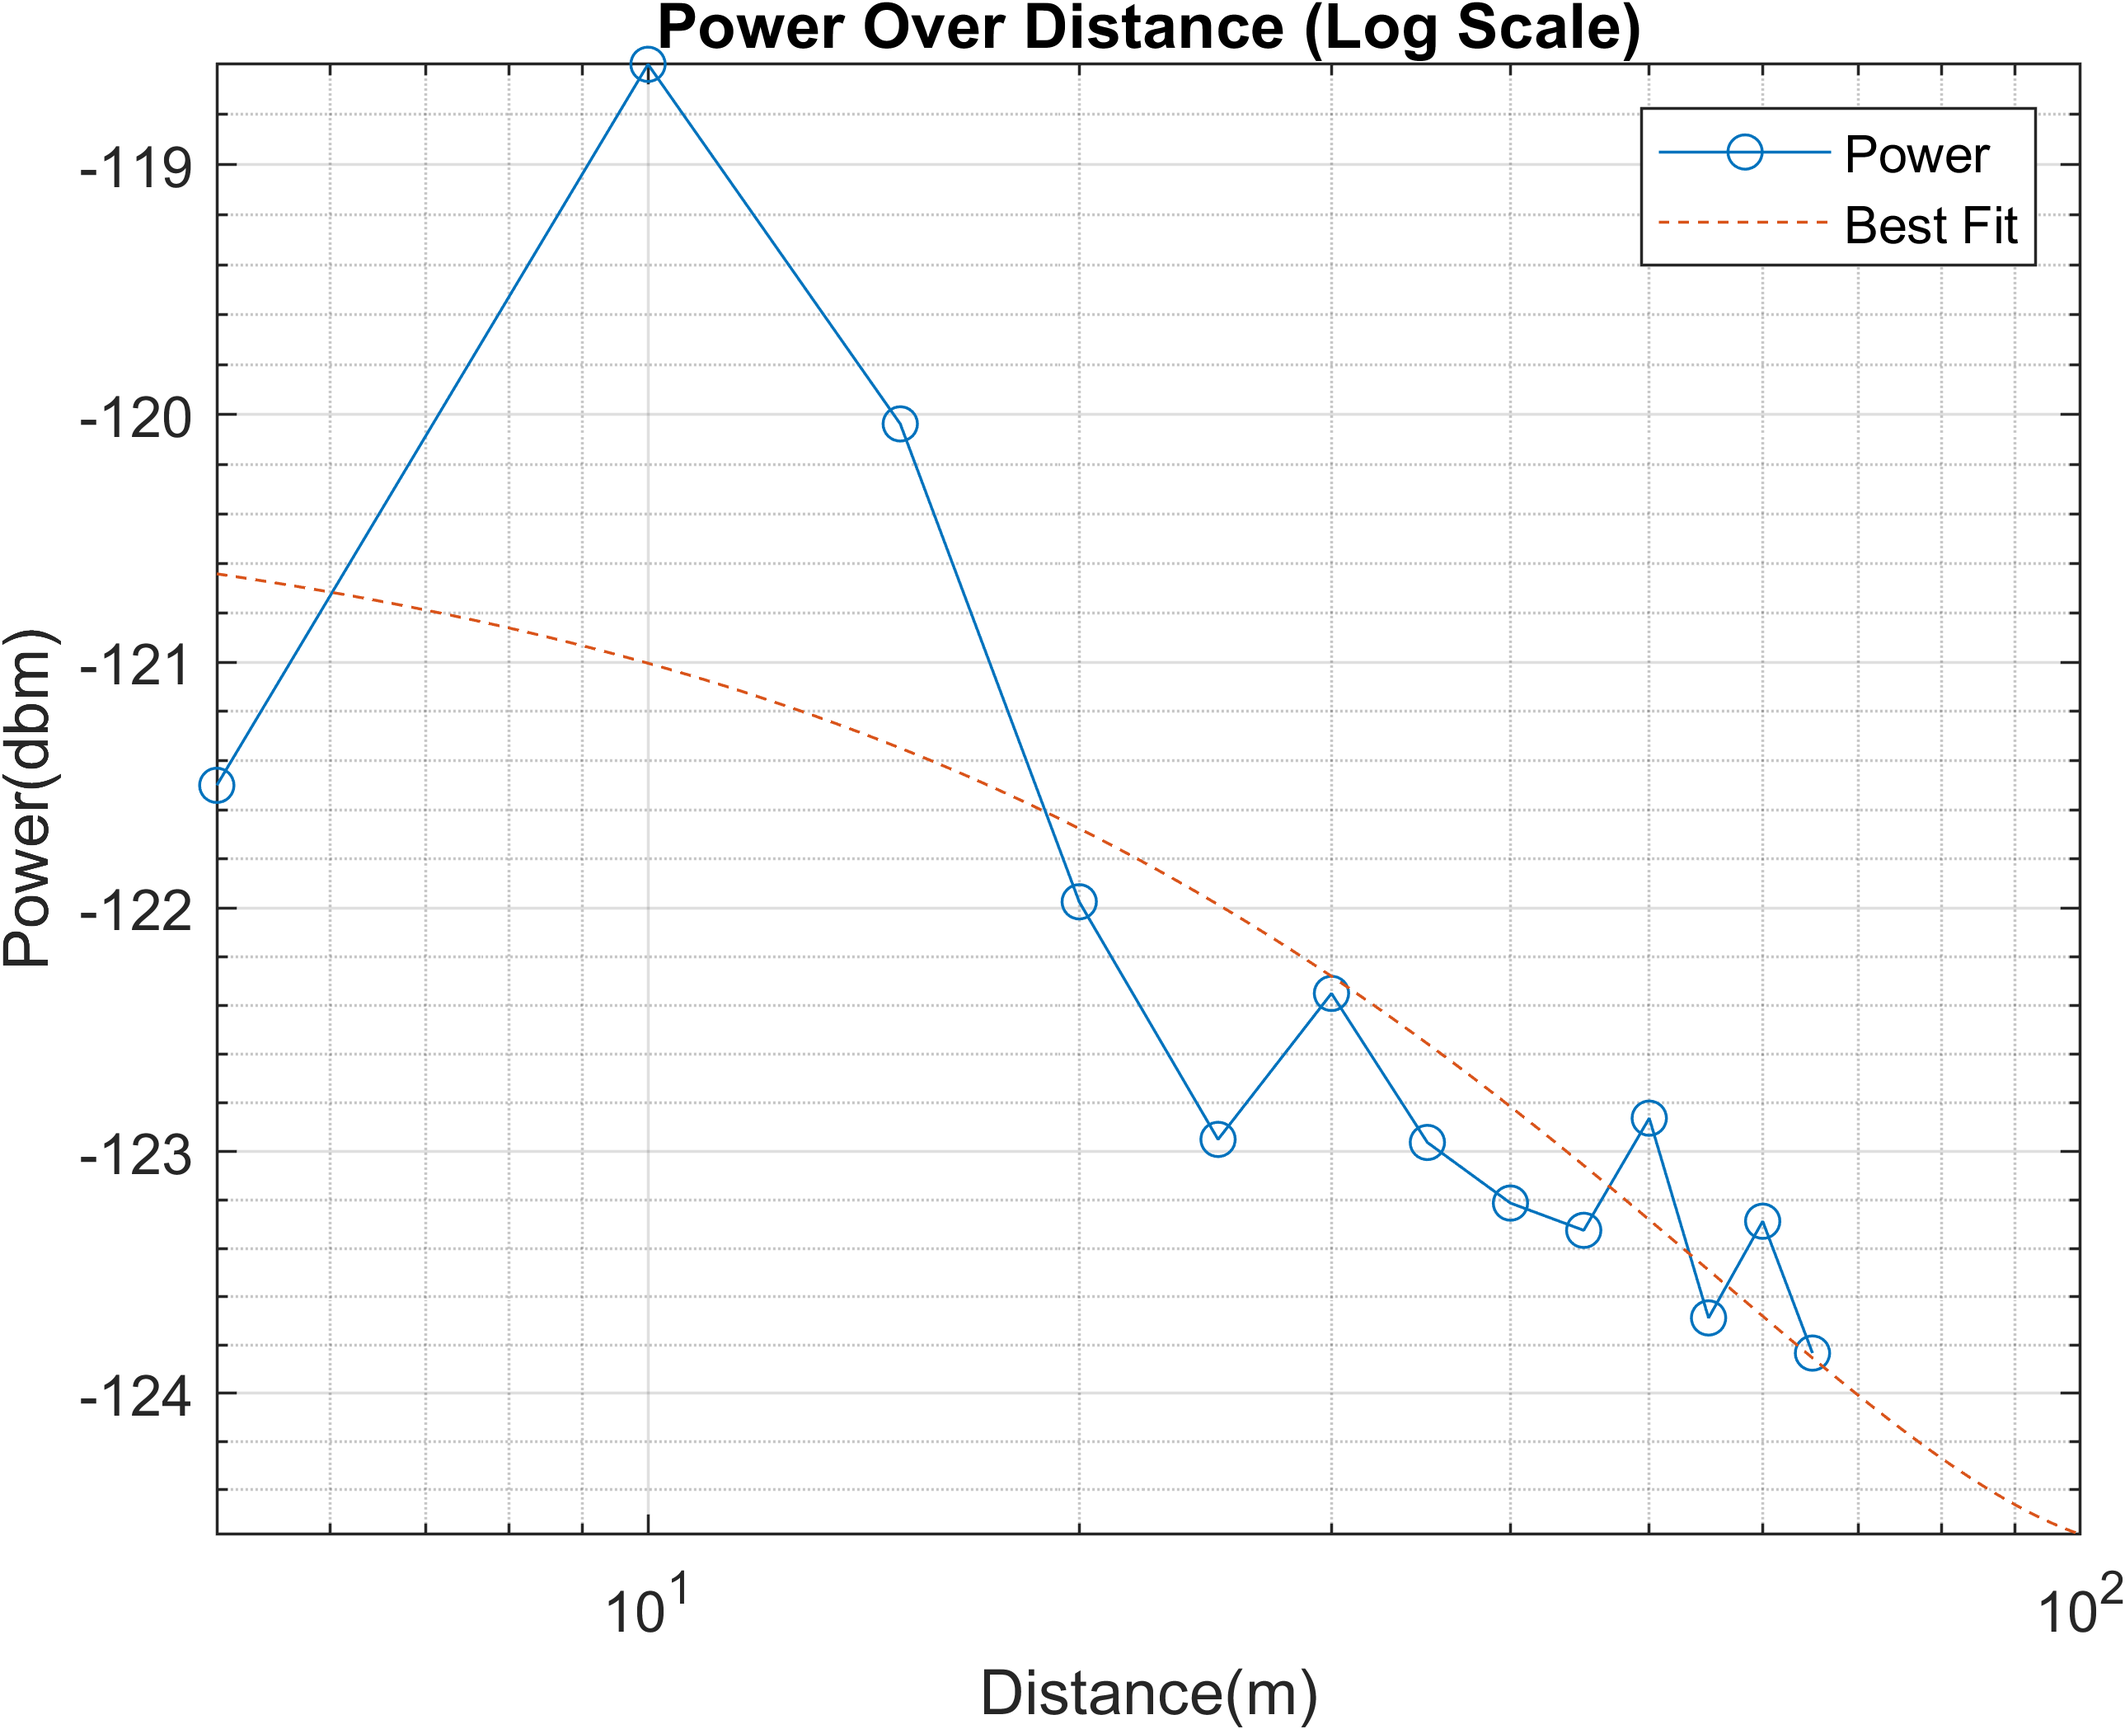
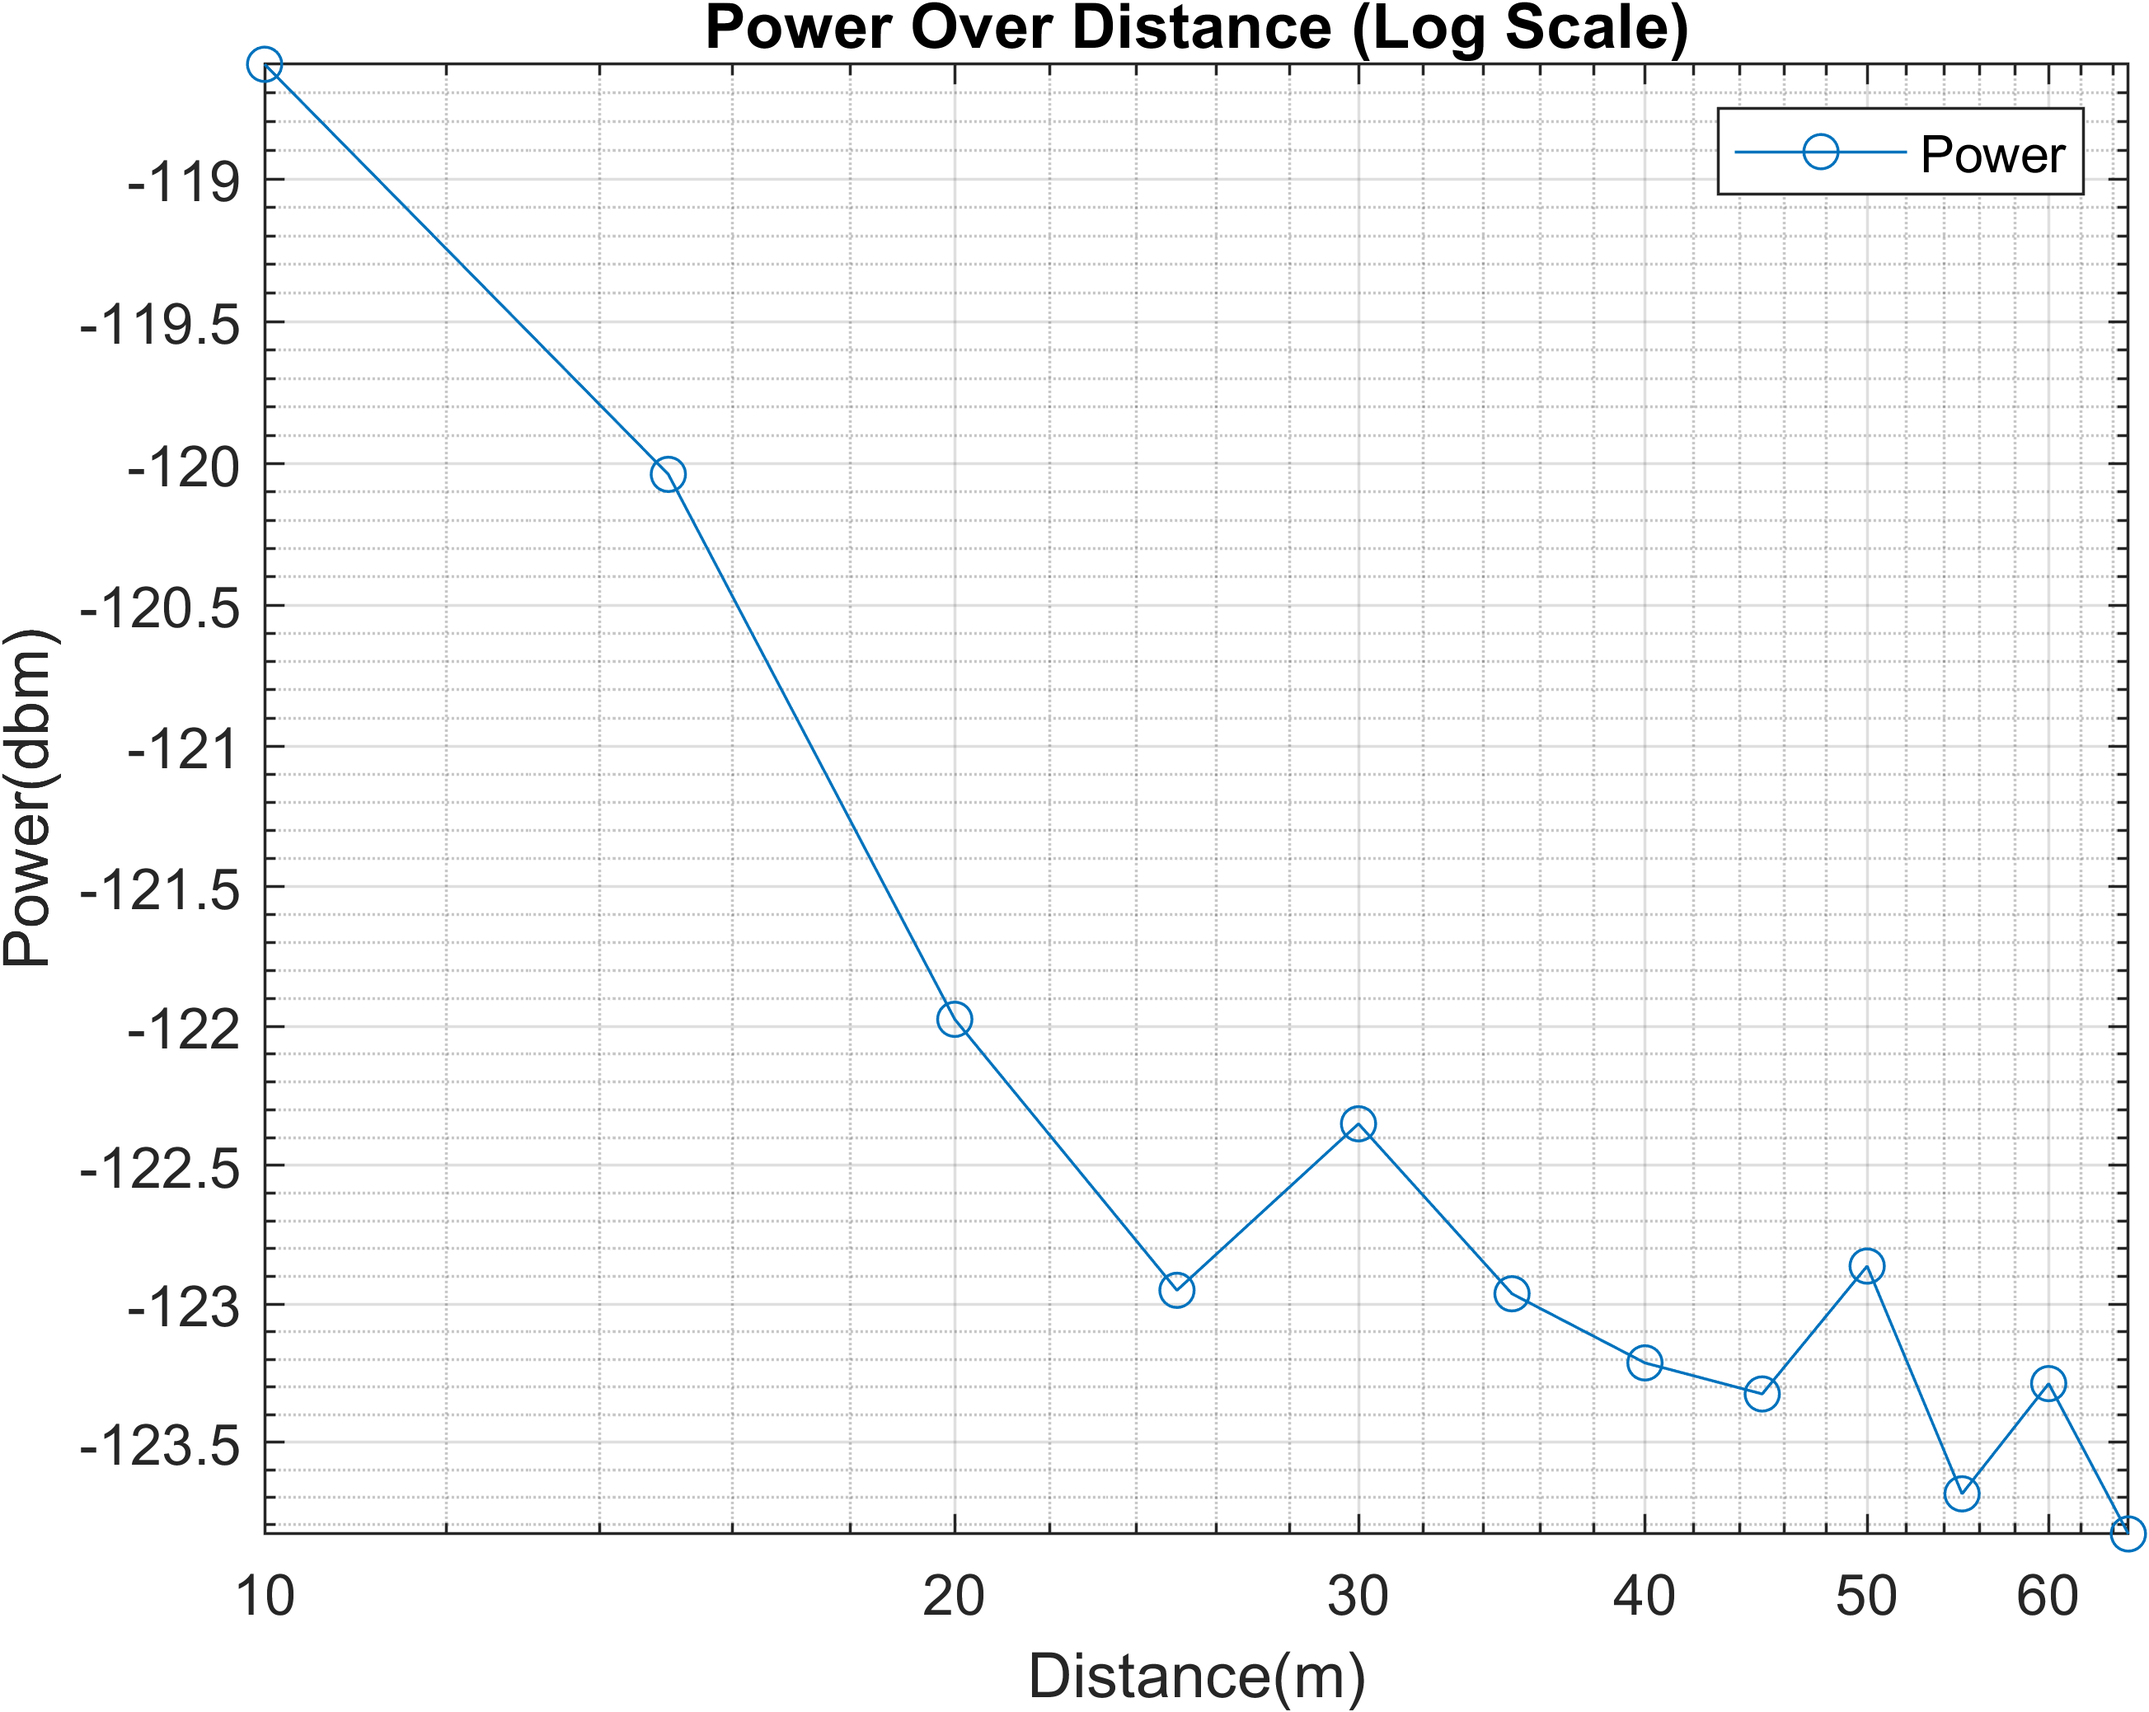
Bug Fix

diff --git a/data_collection/Plot.m b/data_collection/Plot.m
@@ -80,7 +80,7 @@ plot(xdata,ydata,'-o')
 hold on
 patch([xdata', fliplr(xdata')], [ydata'+CI95(1,:) fliplr(ydata'+CI95(2,:))], 'b', 'EdgeColor','none', 'FaceAlpha',0.25)
 
-cf = fit(xdata,ydata,'poly2'); 
+cf = fit(xdata,ydata,'exp2'); 
 plot(cf,'--')
 
 hold off
@@ -99,14 +99,13 @@ xdata = distance_avg(:)
 ydata = avg_power
 plot(xdata,ydata,'-o')
 
+%hold on
+%cf = fit(xdata,ydata,'poly2'); 
+%plot(cf,'--')
+%hold off
+
 set(gca,'YScale','log')
 set(gca,'XScale','log')
-
-hold on
-cf = fit(xdata,ydata,'poly2'); 
-plot(cf,'--')
-
-hold off
 grid
 legend('Power','Best Fit')
 xlabel('Distance(m)'), ylabel('Power(dbm)')
@@ -124,7 +123,7 @@ plot(xdata,ydata,'-o')
 %set(gca,'XScale','log')
 
 hold on
-cf = fit(xdata,ydata,'poly2'); 
+cf = fit(xdata,ydata,'exp2'); 
 plot(cf,'--')
 
 hold off
@@ -135,27 +134,24 @@ title('SNR Over Distance')
 out = gca;
 exportgraphics(out,'result/graph/distance_snr_log.png','Resolution',500)
 
-%Path Lost Over Distance(Log Scale)
+%Path Lost Over Distance
 %RSSI(avg_power) = init_power +gain − Ldb +gain dBm.
 %Ldb = init_power +gain -RSSI(avg_power)+gain 
 figure(4);
 init_power = 13
 gain = 17
 transmit_power = init_power+(gain+2.51)
-Ldb = transmit_power - avg_power-(gain+2.51)
+Ldb = transmit_power - avg_power-(gain+2.51)-34.8
 plot(xdata,Ldb)
-set(gca,'YScale','log')
-set(gca,'XScale','log')
+%set(gca,'YScale','log')
+%set(gca,'XScale','log')
 
-myfittype = fittype('a +10*n*log10(d*10^3) -b',...
-    'dependent',{'y'},'independent',{'d'},...
-    'coefficients',{'a','n','b'})
-cf = fit(xdata,Ldb,'poly2'); 
+cf = fit(xdata,Ldb,'exp2'); 
 hold on
 plot(cf,'--')
 legend('Path Loss','Best Fit')
 xlabel('Distance(m)'), ylabel('Power(dbm)')
-title('Path Lost Over Distance(Log Scale)')
+title('Path Lost Over Distance')
 
 out = gca;
 exportgraphics(out,'result/graph/distance_path_lost.png','Resolution',500)
@@ -167,15 +163,15 @@ transmit_power = init_power
 received_power = avg_power
 link_budget = received_power - transmit_power 
 plot(xdata,link_budget)
-set(gca,'YScale','log')
-set(gca,'XScale','log')
+%set(gca,'YScale','log')
+%set(gca,'XScale','log')
 
-cf = fit(xdata,link_budget,'poly2'); 
+cf = fit(xdata,link_budget,'exp2'); 
 hold on
 plot(cf,'--')
 legend('Link Budget','Best Fit')
 xlabel('Distance(m)'), ylabel('Power(dbm)')
-title('Link Budget(Log Scale)')
+title('Link Budget')
 
 out = gca;
 exportgraphics(out,'result/graph/link_budget.png','Resolution',500)
@@ -184,17 +180,17 @@ exportgraphics(out,'result/graph/link_budget.png','Resolution',500)
 %Equition Solver for N
 %n = (20*log(f)-147.58 - Ldb)/10 /log(distance)
 f =  868.1*10^6
+C = 20*log10(f)-147.56
 syms n
-for i=2:length(distance_avg)
-    eqn = 20*log10(f)+10*n*log10(distance_avg(i)) + -147.58 == Ldb(i)
+for i=1:length(distance_avg)
+    eqn = 10*n*log10(distance_avg(i))+C == Ldb(i)
     N_division = solve(eqn,n)
     n_list = [n_list;N_division]
 end
-n_list=vpa(n_list,2)
-
+n_list=vpa(n_list,3)
 n_avg= mean(n_list,1)
+
 print_distance_avg=distance_avg
-print_distance_avg(1)=[]
 print_data=table(print_distance_avg,n_list)
 
 %write result to file
@@ -211,7 +207,7 @@ receive_power_lst = transmit_power-Ldb
 rssi_lst = receive_power_lst+gain
 antenna_gain = transmit_power+2.15 
 for i=1:length(rssi_avg)
-    cur_path=[init_power;transmit_power;antenna_gain;antenna_gain-22.85;receive_power_lst(i);receive_power_lst(i)+2.15;rssi_lst(i);rssi_lst(i)];
+    cur_path=[init_power;transmit_power;antenna_gain;antenna_gain-34.8;receive_power_lst(i);receive_power_lst(i)+2.15;rssi_lst(i);rssi_lst(i)];
     path = [path,cur_path];
 end
 x_path = {'1 - TX Radio','2 - PA TX','3 - Antenna Gain RX','4 - Attenuation(Brick 267mm)','5 - Path Loss','6 - Antenna Gain RX','7 - PA RX','8 - RSSI'}
